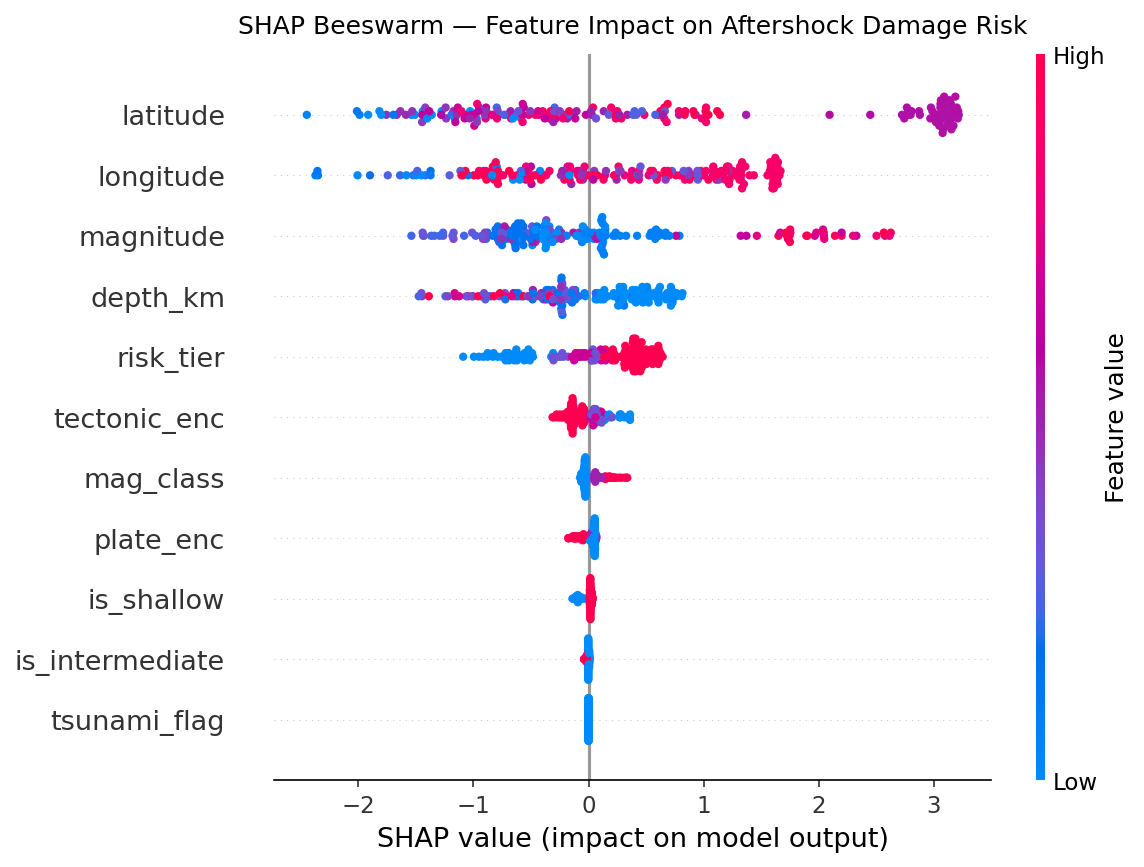
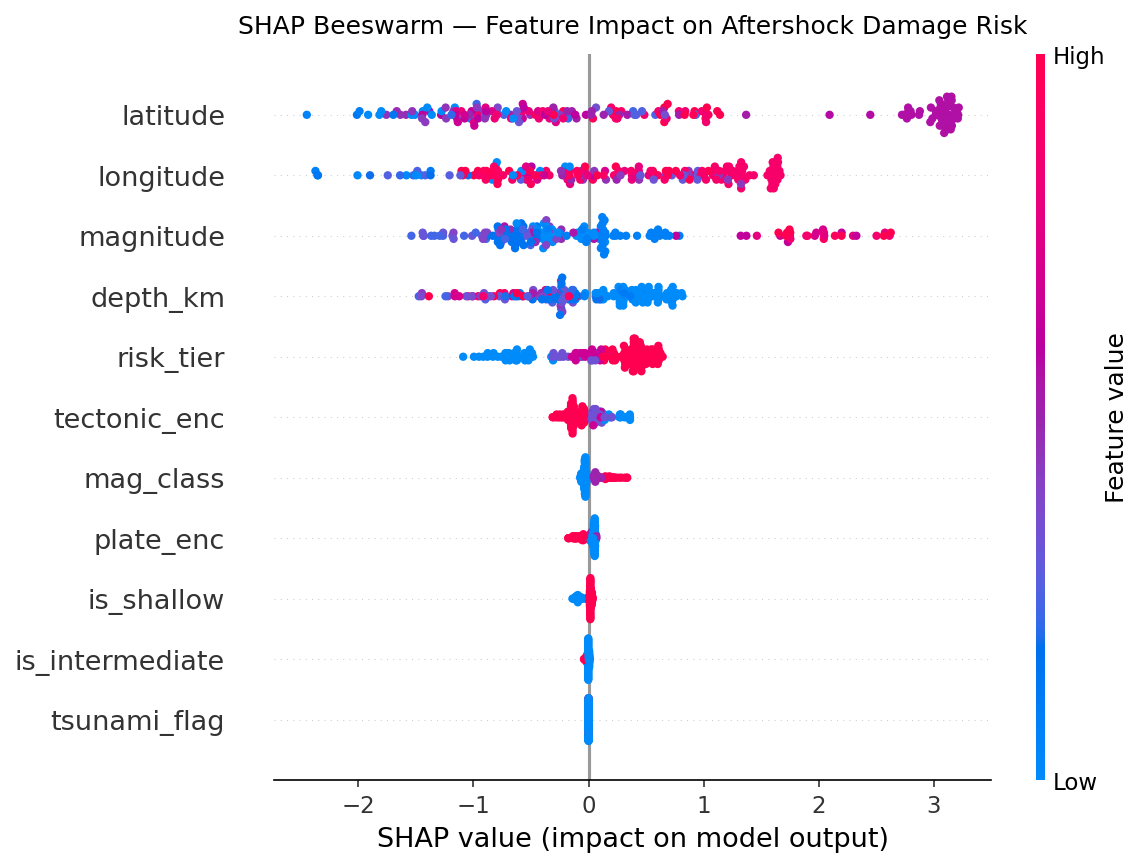
feat: add FastAPI endpoint, Docker, CI pipeline, and tests

diff --git a/api/main.py b/api/main.py
@@ -1,0 +1,66 @@
+import pickle
+import numpy as np
+from pathlib import Path
+from fastapi import FastAPI, HTTPException
+from pydantic import BaseModel
+
+MODELS_DIR = Path(__file__).parent.parent / "models"
+
+with open(MODELS_DIR / "model.pkl",        "rb") as f: model    = pickle.load(f)
+with open(MODELS_DIR / "scaler.pkl",       "rb") as f: scaler   = pickle.load(f)
+with open(MODELS_DIR / "le_tectonic.pkl",  "rb") as f: le_tect  = pickle.load(f)
+with open(MODELS_DIR / "le_plate.pkl",     "rb") as f: le_plate = pickle.load(f)
+
+app = FastAPI(title="Seismic Risk API", version="1.0.0")
+
+
+class EarthquakeInput(BaseModel):
+    magnitude:           float
+    depth_km:            float
+    latitude:            float
+    longitude:           float
+    tsunami_flag:        int
+    risk_tier:           int
+    tectonic_setting:    str
+    plate_boundary_type: str
+
+
+class PredictionOutput(BaseModel):
+    prediction:         int
+    risk_label:         str
+    damage_probability: float
+
+
+@app.get("/health")
+def health():
+    return {"status": "ok"}
+
+
+@app.post("/predict", response_model=PredictionOutput)
+def predict(data: EarthquakeInput):
+    try:
+        tectonic_enc = int(le_tect.transform([data.tectonic_setting])[0])
+        plate_enc    = int(le_plate.transform([data.plate_boundary_type])[0])
+    except ValueError as e:
+        raise HTTPException(status_code=422, detail=f"Unknown category value: {e}")
+
+    is_shallow      = int(data.depth_km < 70)
+    is_intermediate = int(70 <= data.depth_km < 300)
+    mag_class       = int(np.digitize(data.magnitude, [5.4, 5.9, 6.4, 6.9, 99]))
+
+    features = np.array([[
+        data.magnitude, data.depth_km,
+        is_shallow, is_intermediate, mag_class,
+        data.risk_tier, tectonic_enc, plate_enc,
+        data.latitude, data.longitude, data.tsunami_flag,
+    ]])
+
+    scaled = scaler.transform(features)
+    pred   = int(model.predict(scaled)[0])
+    prob   = round(float(model.predict_proba(scaled)[0][1]), 4)
+
+    return PredictionOutput(
+        prediction=pred,
+        risk_label="HIGH" if pred == 1 else "LOW",
+        damage_probability=prob,
+    )

diff --git a/src/train.py b/src/train.py
@@ -84,7 +84,7 @@ def engineer_features(df: pd.DataFrame):
         "magnitude","depth_km","is_shallow","is_intermediate","mag_class",
         "risk_tier","tectonic_enc","plate_enc","latitude","longitude","tsunami_flag",
     ]
-    return df, feat_cols
+    return df, feat_cols, le_tect, le_plate
 
 
 # ── 3. Train + full metrics ───────────────────────────────────────────────────────
@@ -251,6 +251,8 @@ def save_artifacts(results):
     with open(MODELS_DIR/"model.pkl",         "wb") as f: pickle.dump(results["model"],     f)
     with open(MODELS_DIR/"scaler.pkl",        "wb") as f: pickle.dump(results["scaler"],    f)
     with open(MODELS_DIR/"feature_names.pkl", "wb") as f: pickle.dump(results["feat_cols"], f)
+    with open(MODELS_DIR/"le_tectonic.pkl", "wb") as f: pickle.dump(results["le_tect"], f)
+    with open(MODELS_DIR/"le_plate.pkl",    "wb") as f: pickle.dump(results["le_plate"], f)
     with open(MODELS_DIR/"metrics.json",      "w")  as f: json.dump(results["metrics"], f, indent=2)
     print(f"\n✓ Artifacts saved to: {MODELS_DIR}")
     print(f"  model.pkl  |  scaler.pkl  |  feature_names.pkl  |  metrics.json")
@@ -261,8 +263,8 @@ def save_artifacts(results):
 if __name__ == "__main__":
     print("Loading training data...")
     df = load_training_data()
-    df, feat_cols = engineer_features(df)
+    df, feat_cols, le_tect, le_plate = engineer_features(df)
     results = train(df, feat_cols)
     compute_shap(results["model"], results["X_scaled"], feat_cols)
-    save_artifacts(results)
+    save_artifacts({**results, "le_tect": le_tect, "le_plate": le_plate})
     print("\n✓ Done. Run: streamlit run src/app.py")

diff --git a/tests/test_api.py b/tests/test_api.py
@@ -1,0 +1,26 @@
+from fastapi.testclient import TestClient
+from api.main import app
+
+client = TestClient(app)
+
+def test_health():
+    r = client.get("/health")
+    assert r.status_code == 200
+    assert r.json()["status"] == "ok"
+
+def test_predict_returns_valid_schema():
+    payload = {
+        "magnitude": 6.5,
+        "depth_km": 35.0,
+        "latitude": 27.7,
+        "longitude": 85.3,
+        "tsunami_flag": 0,
+        "risk_tier": 2,
+        "tectonic_setting": "Subduction Zone",
+        "plate_boundary_type": "Convergent"
+    }
+    r = client.post("/predict", json=payload)
+    assert r.status_code == 200
+    body = r.json()
+    assert body["risk_label"] in ("HIGH", "LOW")
+    assert 0.0 <= body["damage_probability"] <= 1.0
